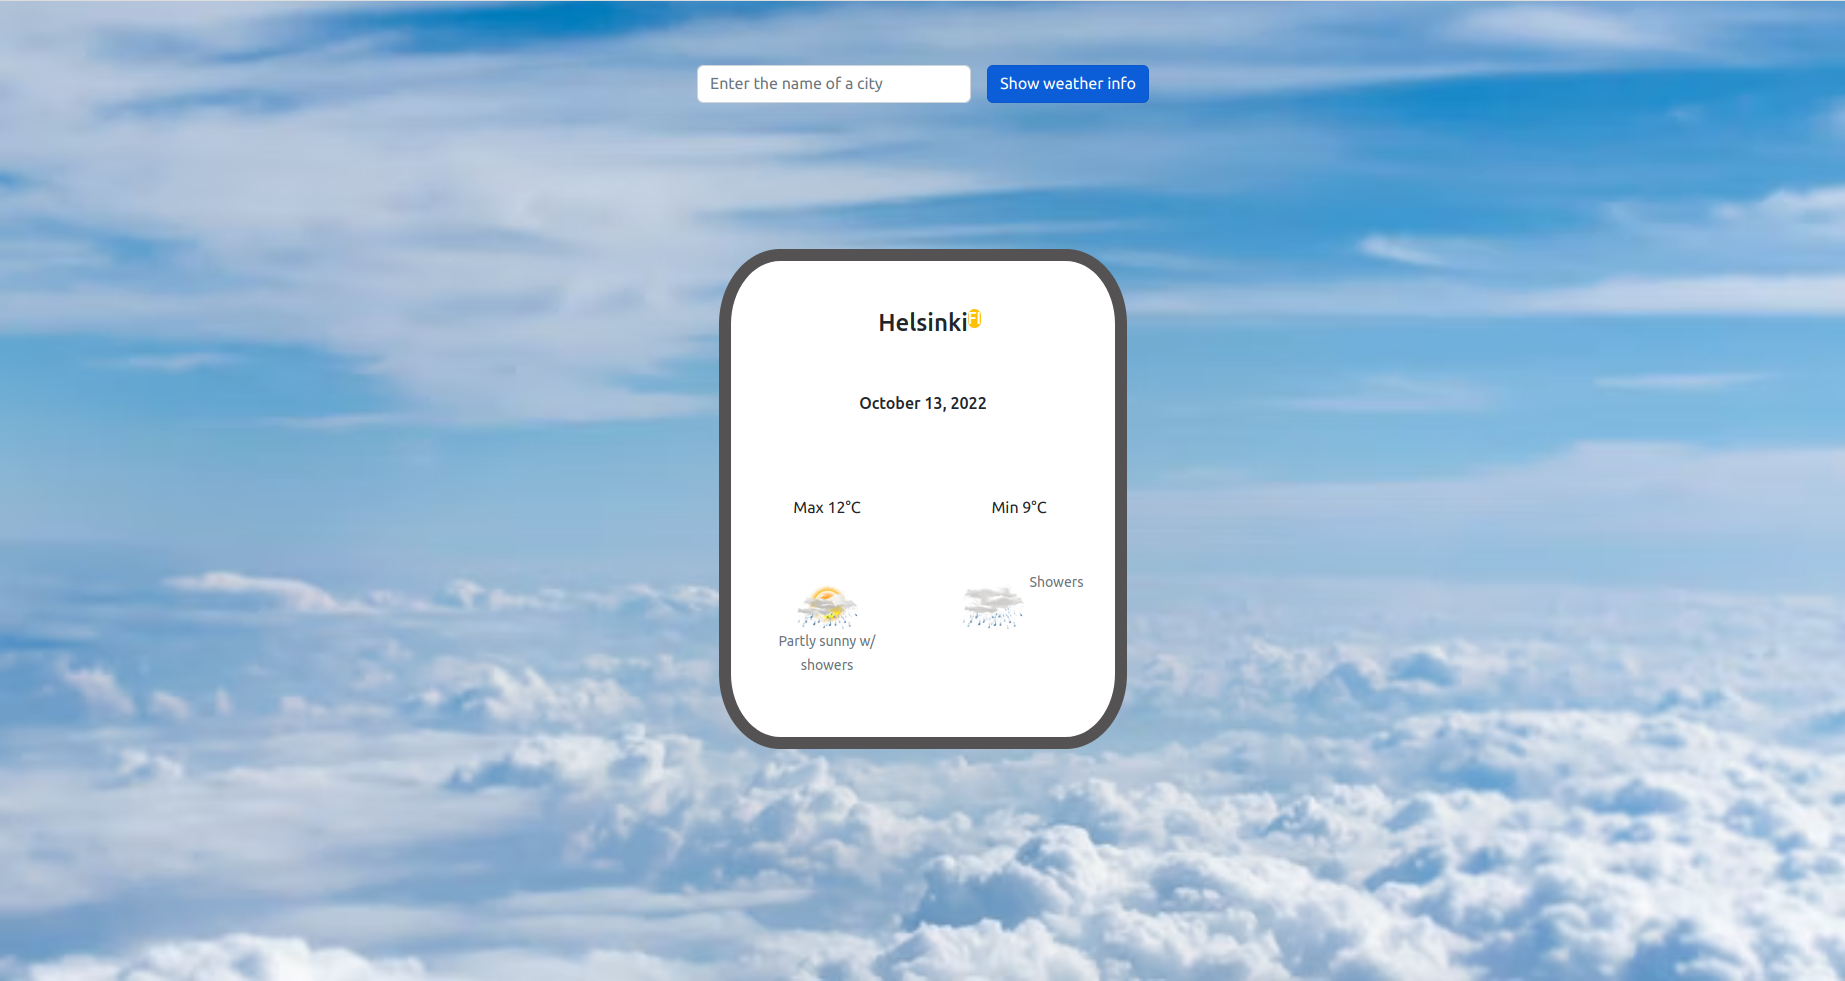
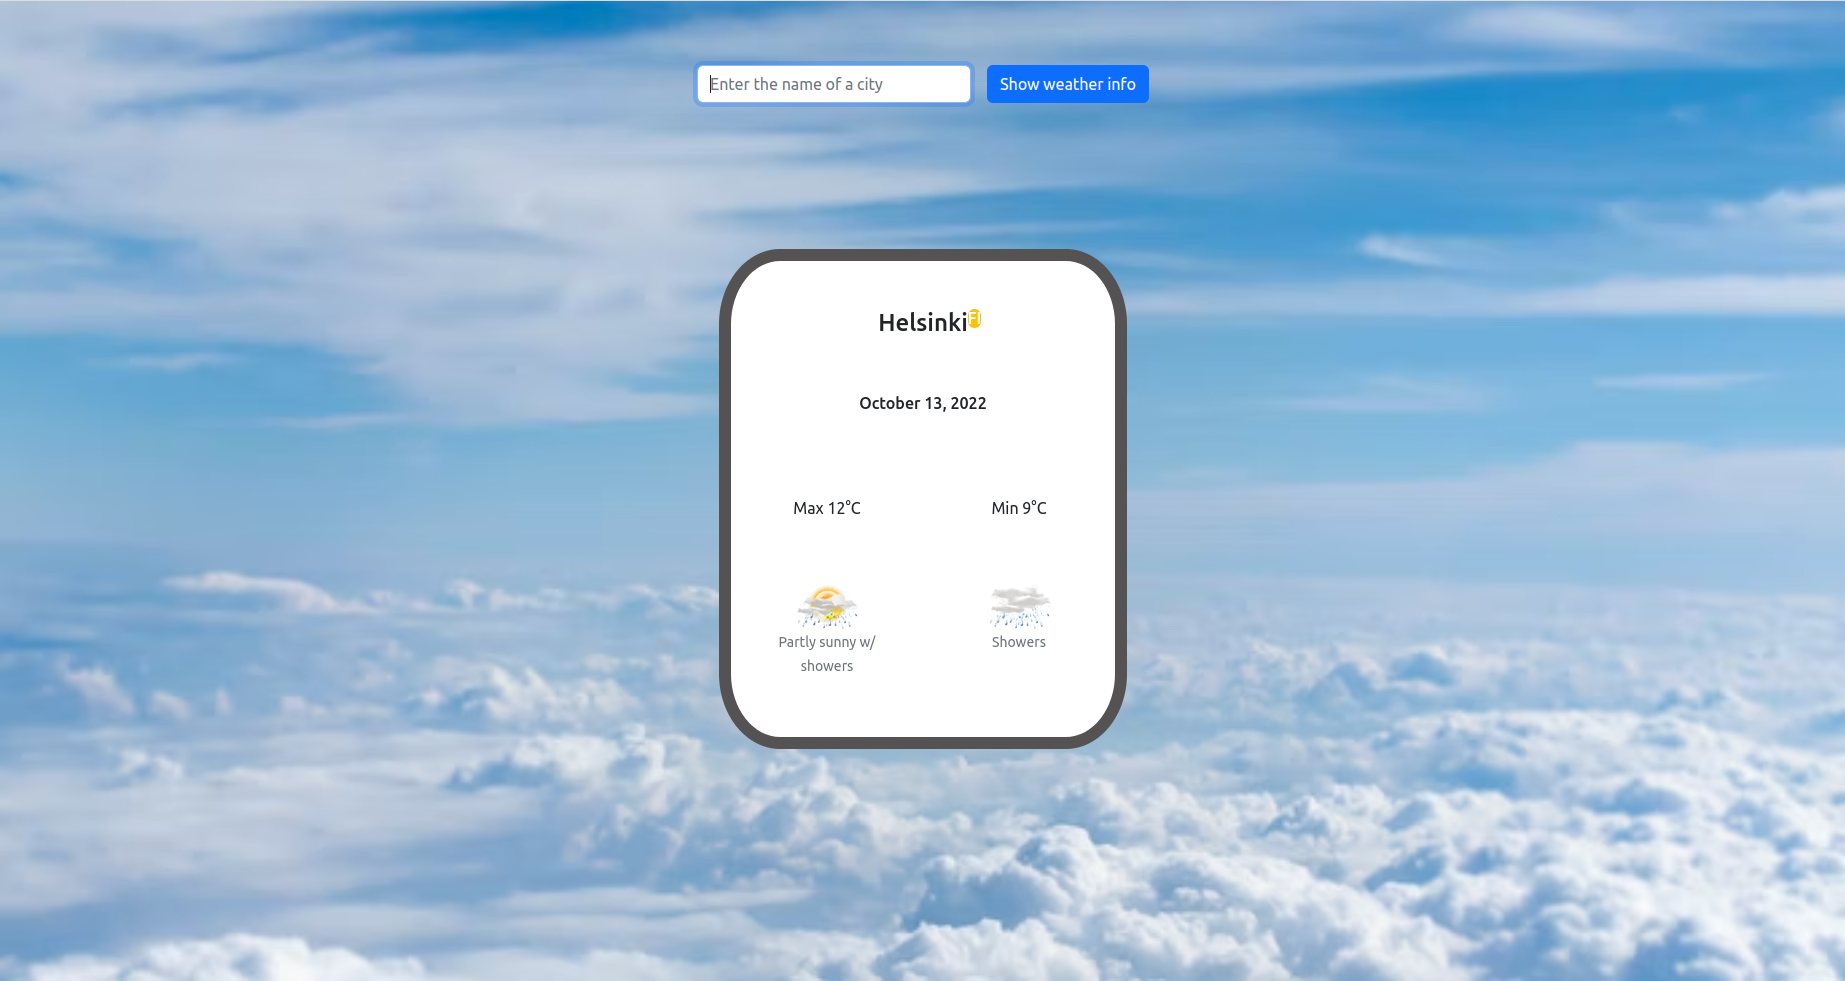
add image

diff --git a/src/components/common/WeatherCard.jsx b/src/components/common/WeatherCard.jsx
@@ -22,7 +22,7 @@ const WeatherCard = (props) => {
               </span>
             </h4>
             <h6 className='mt-5'>
-              {moment(new Date(props.data.Headline.EffectiveDate)).format("LL")}
+              {moment(new Date(props.data.DailyForecasts[0].Date)).format("LL")}
             </h6>
             <div className='row m-auto' style={{ textAlign: "center" }}>
               <div className='col'>
@@ -70,7 +70,7 @@ const WeatherCard = (props) => {
                     alt='night'
                   />
 
-                  <p className='card-text' style={{ display: "inline-block" }}>
+                  <p className='card-text'>
                     <small className='text-muted'>
                       {props.data.DailyForecasts[0].Night.IconPhrase}
                     </small>
